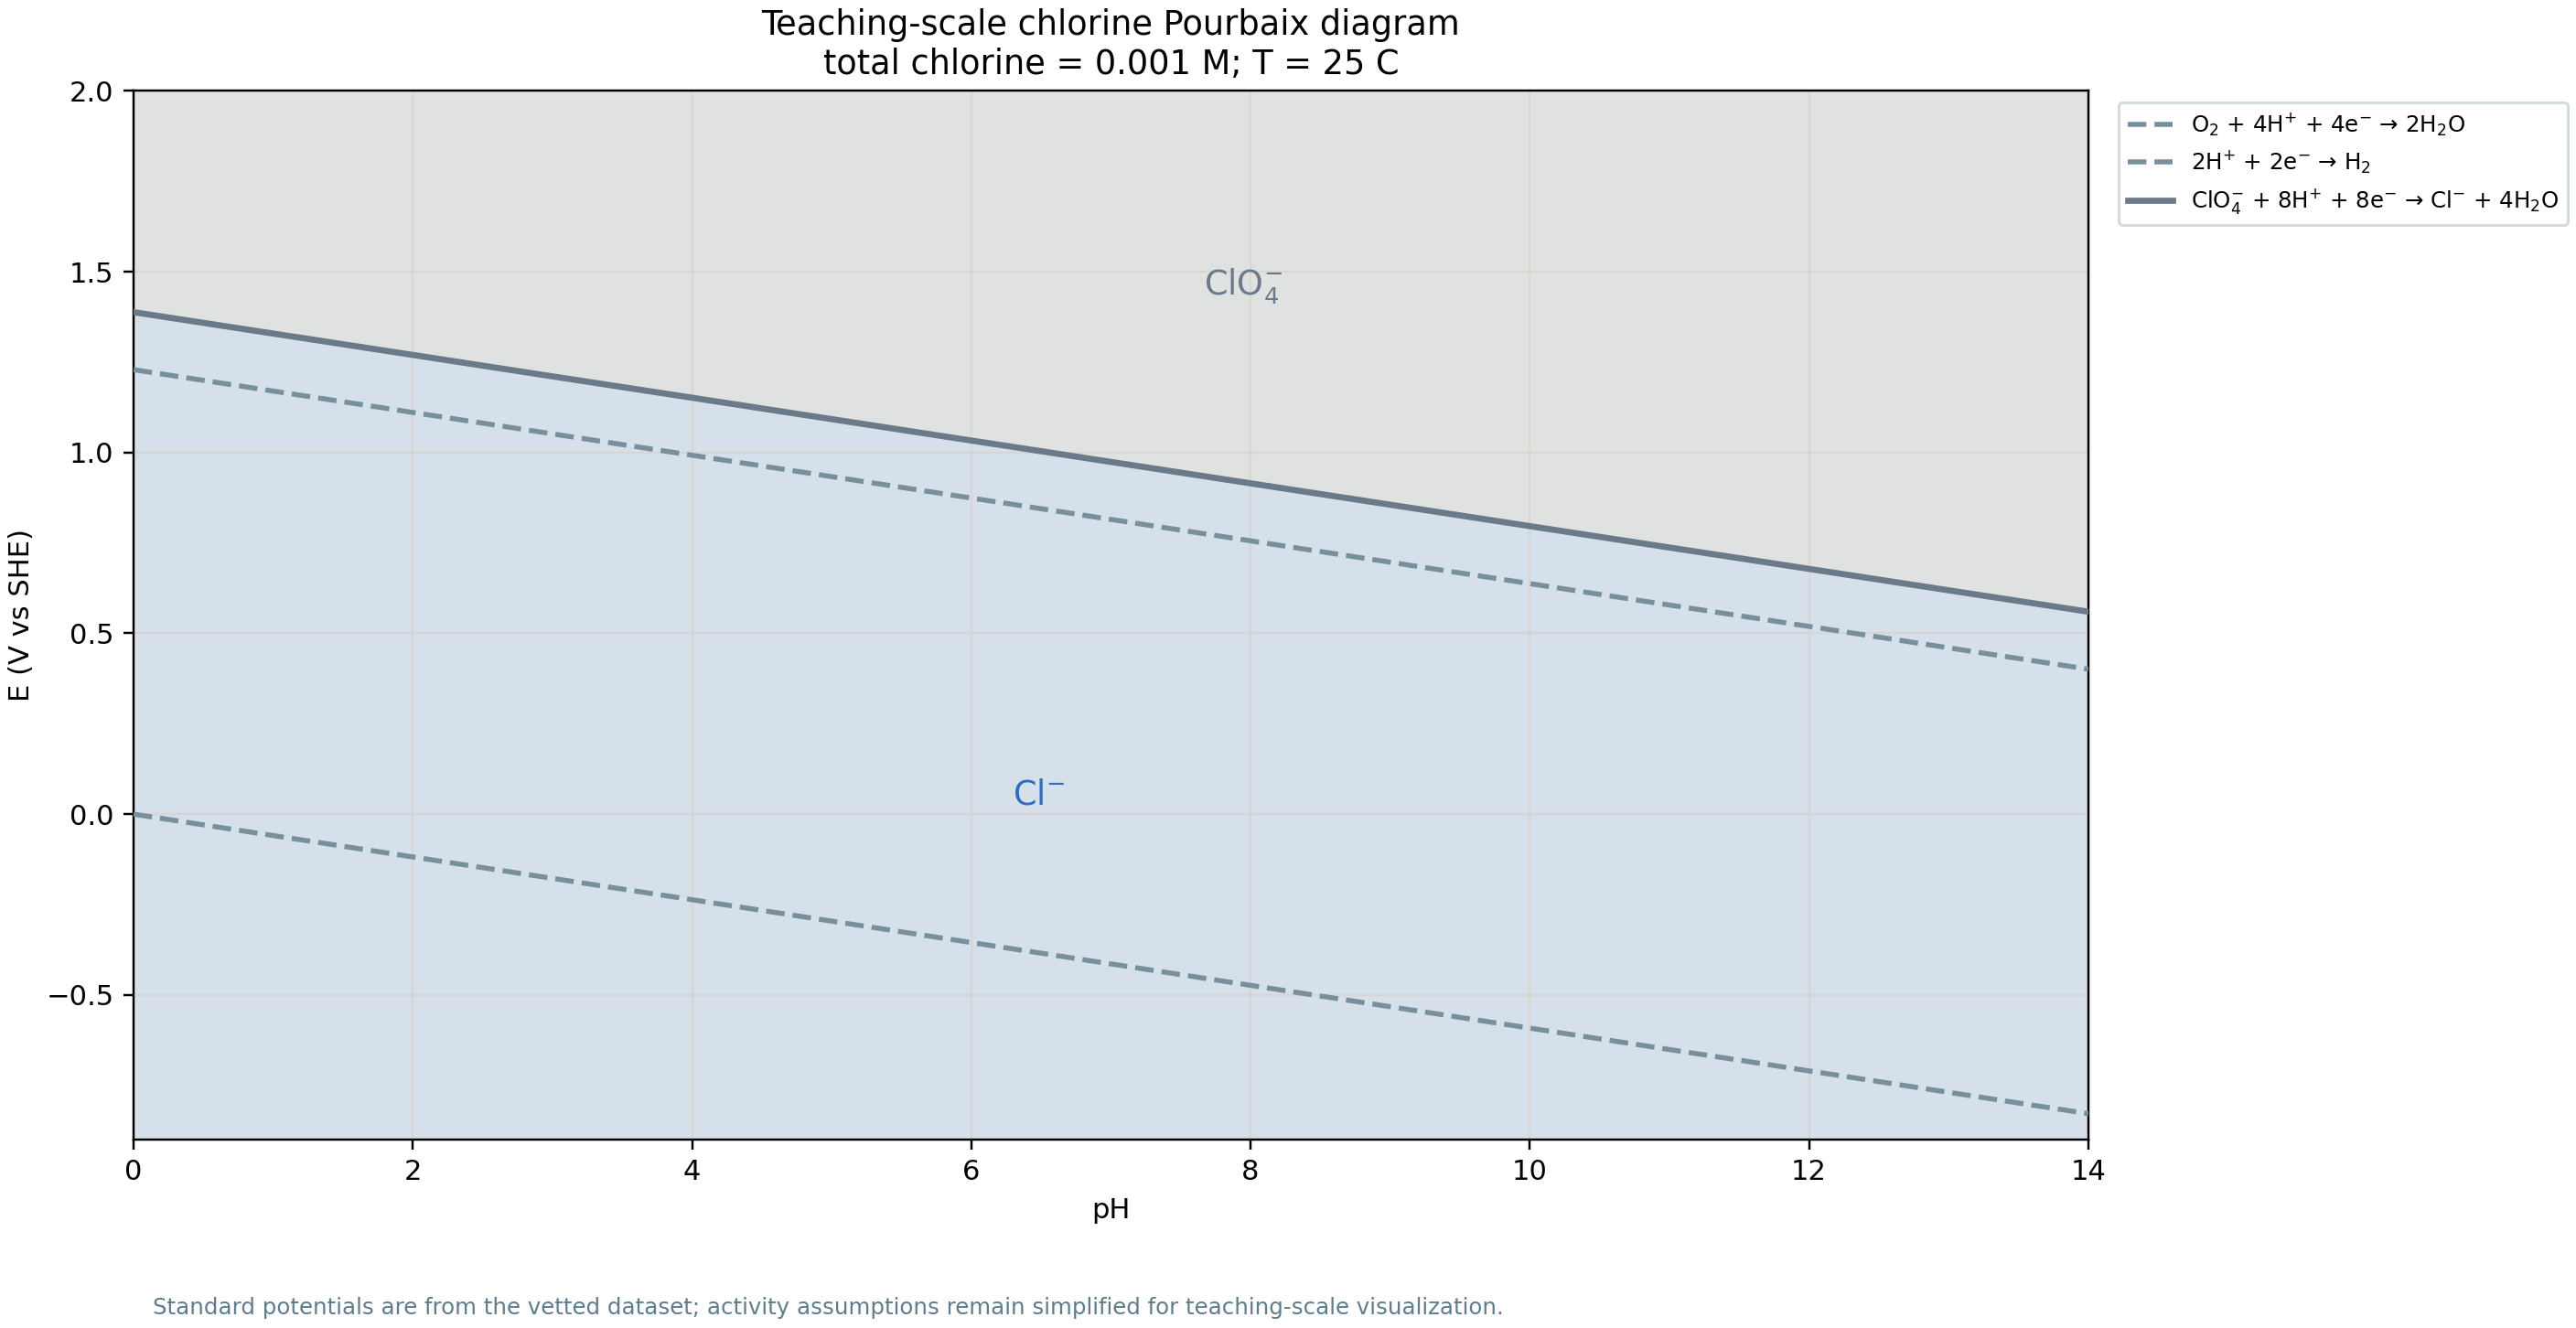
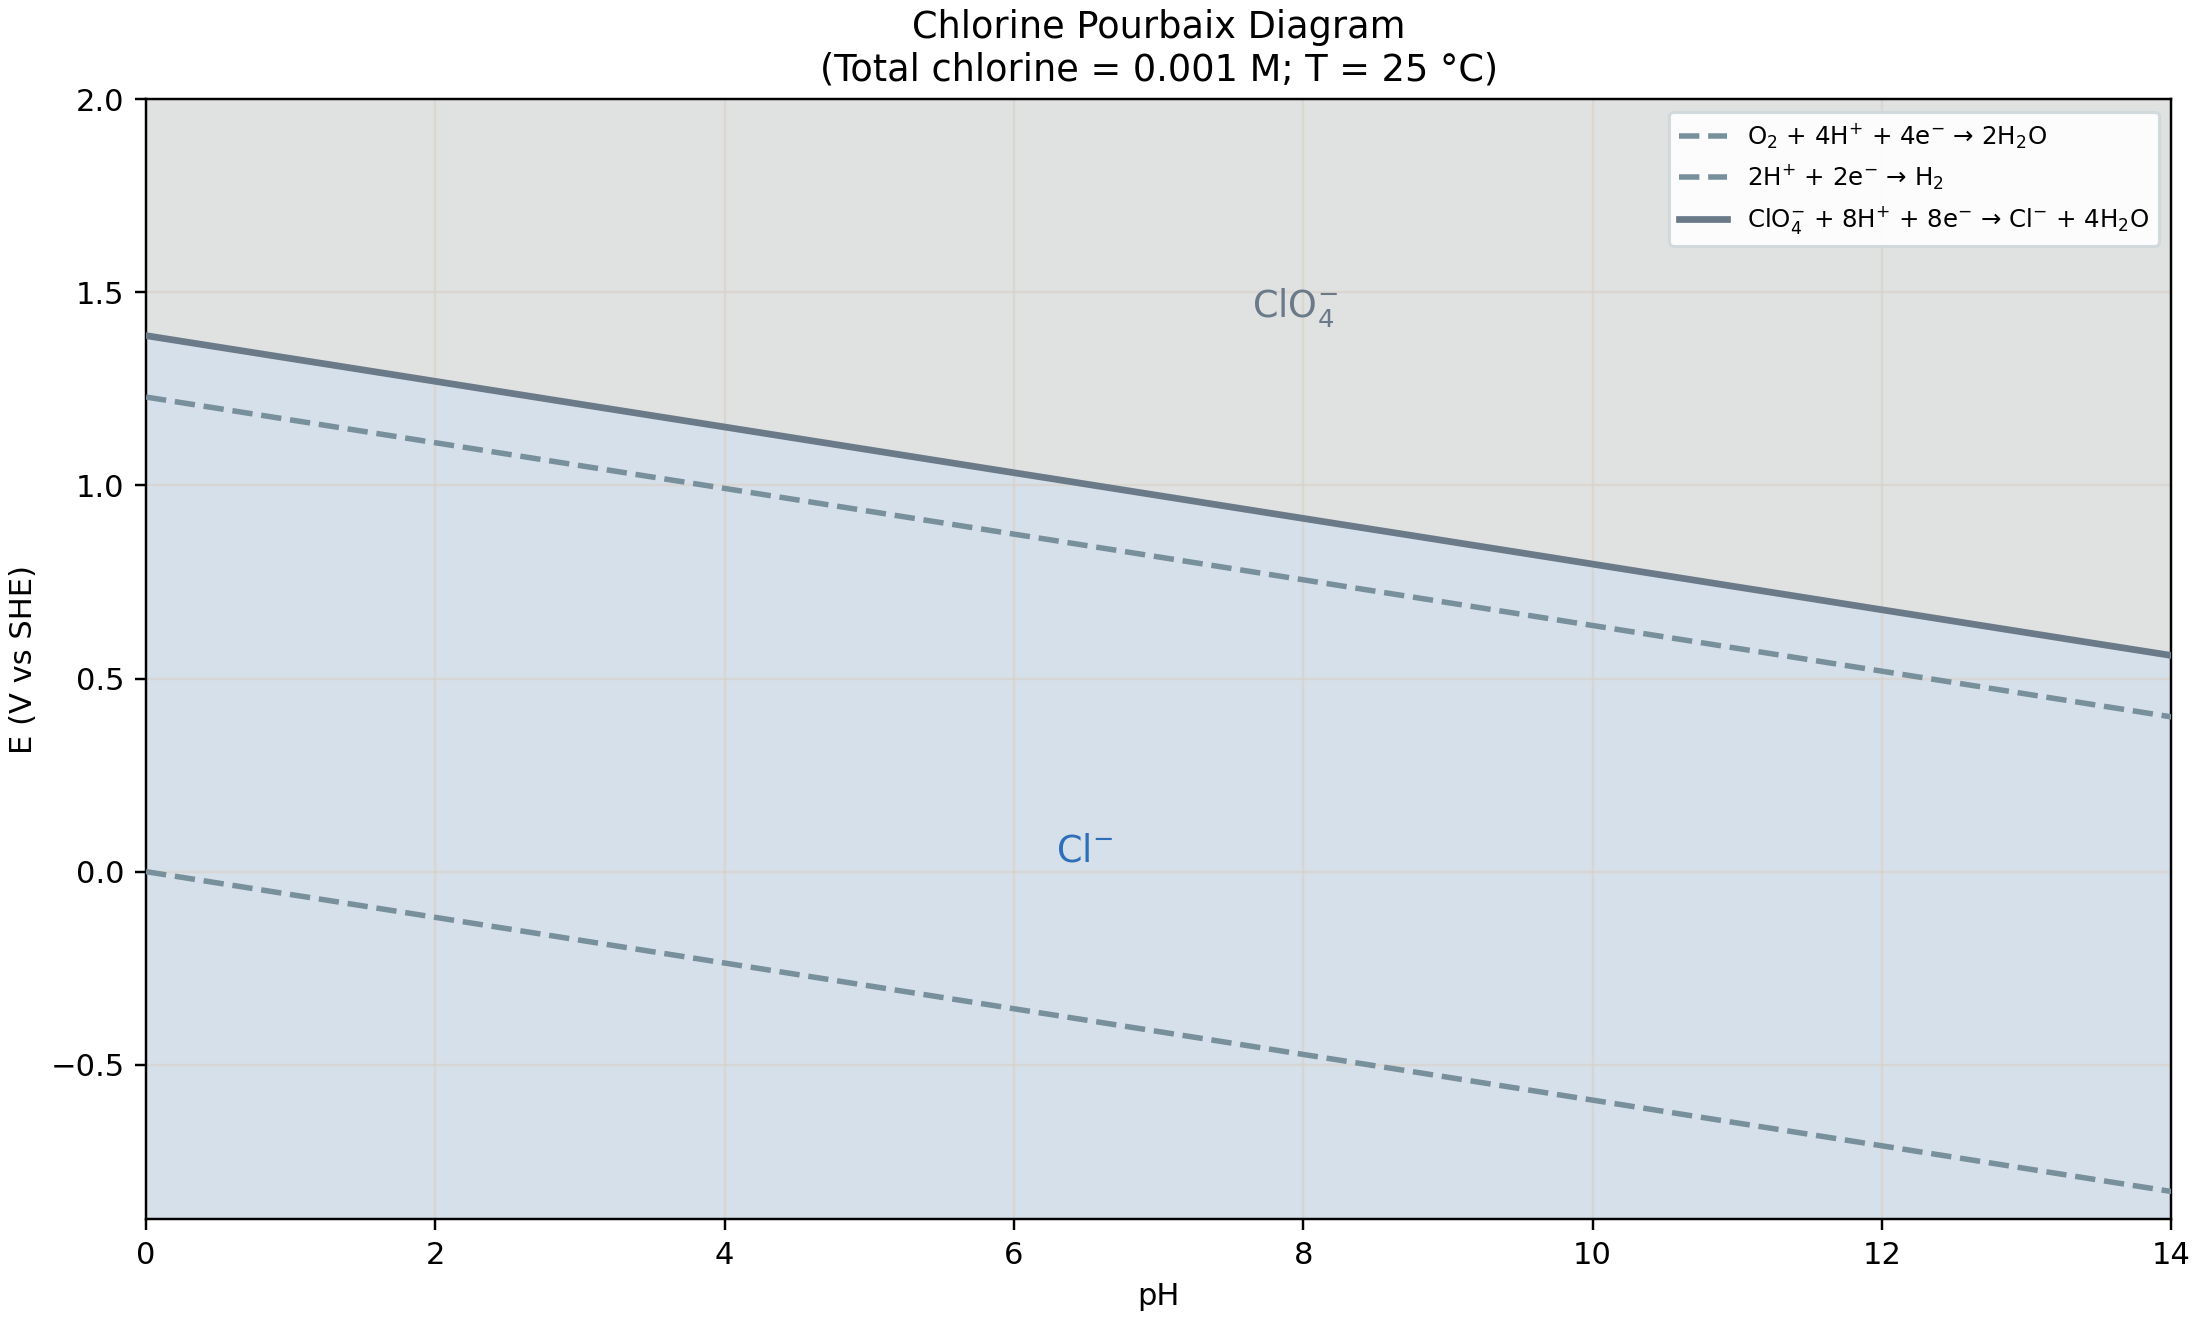
Update

diff --git a/components/PourbaixDiagram.vue b/components/PourbaixDiagram.vue
@@ -492,8 +492,7 @@ onBeforeUnmount(stopPlayback)
           :y="margin.top"
           :width="plotWidth"
           :height="plotHeight"
-          fill="#fbfaf6"
-          stroke="#cfd8dc"
+          class="plot-area"
         />
 
         <g v-for="tick in xTicks" :key="`x-${tick}`">
@@ -502,7 +501,7 @@ onBeforeUnmount(stopPlayback)
             :x2="xScale(tick)"
             :y1="margin.top"
             :y2="margin.top + plotHeight"
-            stroke="#e6e1d8"
+            class="grid-line"
             stroke-width="1"
           />
           <text :x="xScale(tick)" :y="height - 20" text-anchor="middle" class="axis-tick">{{ tick }}</text>
@@ -514,7 +513,7 @@ onBeforeUnmount(stopPlayback)
             :x2="margin.left + plotWidth"
             :y1="yScale(tick)"
             :y2="yScale(tick)"
-            stroke="#ece7dd"
+            class="grid-line"
             stroke-width="1"
           />
           <text :x="margin.left - 12" :y="yScale(tick) + 4" text-anchor="end" class="axis-tick">
@@ -599,7 +598,7 @@ onBeforeUnmount(stopPlayback)
           :x2="margin.left + plotWidth"
           :y1="margin.top + plotHeight"
           :y2="margin.top + plotHeight"
-          stroke="#455a64"
+          class="axis-frame"
           stroke-width="1.5"
         />
         <line
@@ -607,7 +606,7 @@ onBeforeUnmount(stopPlayback)
           :x2="margin.left"
           :y1="margin.top"
           :y2="margin.top + plotHeight"
-          stroke="#455a64"
+          class="axis-frame"
           stroke-width="1.5"
         />
 
@@ -818,6 +817,25 @@ onBeforeUnmount(stopPlayback)
 
 <style scoped>
 .pourbaix-shell {
+  --pourbaix-surface: #ffffff;
+  --pourbaix-panel-border: rgba(38, 50, 56, 0.14);
+  --pourbaix-panel-shadow: 0 12px 30px rgba(38, 50, 56, 0.08);
+  --pourbaix-plot-bg: #fbfaf6;
+  --pourbaix-plot-border: #cfd8dc;
+  --pourbaix-grid: #e6e1d8;
+  --pourbaix-frame: #455a64;
+  --pourbaix-text: #37474f;
+  --pourbaix-text-strong: #111827;
+  --pourbaix-text-muted: #607d8b;
+  --pourbaix-accent-text: #1f3c5c;
+  --pourbaix-accent: #1f78f2;
+  --pourbaix-button-bg: #ffffff;
+  --pourbaix-button-muted-bg: #eef3f6;
+  --pourbaix-card-bg: #f7f9fb;
+  --pourbaix-equation-edge: #2f6fba;
+  --pourbaix-composition-edge: #6a7a89;
+  --pourbaix-swatch-border: rgba(0, 0, 0, 0.12);
+  --pourbaix-region-label-halo: #ffffff;
   display: grid;
   grid-template-columns: minmax(0, 1fr) minmax(220px, 252px);
   gap: 12px;
@@ -828,13 +846,35 @@ onBeforeUnmount(stopPlayback)
   min-height: 0;
 }
 
+:global(html.dark) .pourbaix-shell {
+  --pourbaix-surface: #111827;
+  --pourbaix-panel-border: rgba(148, 163, 184, 0.26);
+  --pourbaix-panel-shadow: 0 14px 34px rgba(0, 0, 0, 0.32);
+  --pourbaix-plot-bg: #101820;
+  --pourbaix-plot-border: #475569;
+  --pourbaix-grid: #334155;
+  --pourbaix-frame: #cbd5e1;
+  --pourbaix-text: #dbeafe;
+  --pourbaix-text-strong: #f8fafc;
+  --pourbaix-text-muted: #94a3b8;
+  --pourbaix-accent-text: #bfdbfe;
+  --pourbaix-accent: #60a5fa;
+  --pourbaix-button-bg: #1e293b;
+  --pourbaix-button-muted-bg: #172033;
+  --pourbaix-card-bg: #172033;
+  --pourbaix-equation-edge: #60a5fa;
+  --pourbaix-composition-edge: #94a3b8;
+  --pourbaix-swatch-border: rgba(248, 250, 252, 0.34);
+  --pourbaix-region-label-halo: #0f172a;
+}
+
 .chart-panel,
 .control-panel,
 .chart-control-card {
-  border: 1px solid rgba(38, 50, 56, 0.14);
+  border: 1px solid var(--pourbaix-panel-border);
   border-radius: 8px;
-  background: #fff;
-  box-shadow: 0 12px 30px rgba(38, 50, 56, 0.08);
+  background: var(--pourbaix-surface);
+  box-shadow: var(--pourbaix-panel-shadow);
 }
 
 .diagram-column {
@@ -856,6 +896,19 @@ onBeforeUnmount(stopPlayback)
   width: 100%;
   height: 100%;
   display: block;
+}
+
+.plot-area {
+  fill: var(--pourbaix-plot-bg);
+  stroke: var(--pourbaix-plot-border);
+}
+
+.grid-line {
+  stroke: var(--pourbaix-grid);
+}
+
+.axis-frame {
+  stroke: var(--pourbaix-frame);
 }
 
 .under-chart-panels {
@@ -896,18 +949,18 @@ onBeforeUnmount(stopPlayback)
   align-self: end;
   width: 24px;
   height: 24px;
-  border: 1px solid rgba(38, 50, 56, 0.2);
+  border: 1px solid var(--pourbaix-panel-border);
   border-radius: 6px;
-  background: #eef3f6;
-  color: #455a64;
+  background: var(--pourbaix-button-muted-bg);
+  color: var(--pourbaix-frame);
   padding: 0;
 }
 
 .mode-toggle.active {
-  background: #ffffff;
-  border-color: rgba(47, 111, 186, 0.35);
-  color: #1f3c5c;
-  box-shadow: 0 1px 3px rgba(38, 50, 56, 0.15);
+  background: var(--pourbaix-button-bg);
+  border-color: color-mix(in srgb, var(--pourbaix-accent) 55%, transparent);
+  color: var(--pourbaix-accent-text);
+  box-shadow: 0 1px 3px color-mix(in srgb, var(--pourbaix-frame) 28%, transparent);
 }
 
 .mode-icon {
@@ -923,7 +976,7 @@ onBeforeUnmount(stopPlayback)
 .control-title,
 label {
   margin: 0;
-  color: #37474f;
+  color: var(--pourbaix-text);
   font-size: 0.66rem;
   font-weight: 700;
   line-height: 1.05;
@@ -941,6 +994,7 @@ label sub {
 input[type="range"] {
   width: 100%;
   min-width: 0;
+  accent-color: var(--pourbaix-accent);
 }
 
 .play-toggle {
@@ -948,18 +1002,18 @@ input[type="range"] {
   place-items: center;
   width: 22px;
   height: 22px;
-  border: 1px solid rgba(38, 50, 56, 0.18);
+  border: 1px solid var(--pourbaix-panel-border);
   border-radius: 50%;
-  background: #ffffff;
-  color: #1f3c5c;
+  background: var(--pourbaix-button-bg);
+  color: var(--pourbaix-accent-text);
   padding: 0;
-  box-shadow: 0 1px 2px rgba(38, 50, 56, 0.12);
+  box-shadow: 0 1px 2px color-mix(in srgb, var(--pourbaix-frame) 24%, transparent);
 }
 
 .play-toggle.active {
-  background: #1f78f2;
-  border-color: #1f78f2;
-  color: #ffffff;
+  background: var(--pourbaix-accent);
+  border-color: var(--pourbaix-accent);
+  color: var(--pourbaix-surface);
 }
 
 .play-toggle svg {
@@ -970,7 +1024,7 @@ input[type="range"] {
 
 output {
   font-variant-numeric: tabular-nums;
-  color: #1f3c5c;
+  color: var(--pourbaix-accent-text);
   font-size: 0.62rem;
   font-weight: 700;
   text-align: right;
@@ -997,12 +1051,12 @@ output {
   width: 9px;
   height: 9px;
   border-radius: 50%;
-  border: 1px solid rgba(0, 0, 0, 0.12);
+  border: 1px solid var(--pourbaix-swatch-border);
 }
 
 .equation-card {
-  border-left: 3px solid #2f6fba;
-  background: #f7f9fb;
+  border-left: 3px solid var(--pourbaix-equation-edge);
+  background: var(--pourbaix-card-bg);
   box-sizing: border-box;
   display: grid;
   flex: 0 0 auto;
@@ -1021,8 +1075,8 @@ output {
 }
 
 .composition-card {
-  border-left: 3px solid #6a7a89;
-  background: #f7f9fb;
+  border-left: 3px solid var(--pourbaix-composition-edge);
+  background: var(--pourbaix-card-bg);
   box-sizing: border-box;
   align-self: stretch;
   padding: 7px 10px 8px;
@@ -1041,7 +1095,7 @@ output {
 }
 
 .coordinate-readout {
-  color: #111827;
+  color: var(--pourbaix-text-strong);
   font-size: 0.68rem;
   font-variant-numeric: tabular-nums;
   font-weight: 800;
@@ -1055,15 +1109,15 @@ output {
 .unit-toggle {
   min-width: 38px;
   height: 22px;
-  border: 1px solid rgba(38, 50, 56, 0.18);
+  border: 1px solid var(--pourbaix-panel-border);
   border-radius: 5px;
-  background: #ffffff;
-  color: #1f3c5c;
+  background: var(--pourbaix-button-bg);
+  color: var(--pourbaix-accent-text);
   font-size: 0.62rem;
   font-weight: 800;
   line-height: 1;
   padding: 0 5px;
-  box-shadow: 0 1px 2px rgba(38, 50, 56, 0.12);
+  box-shadow: 0 1px 2px color-mix(in srgb, var(--pourbaix-frame) 24%, transparent);
 }
 
 .composition-list {
@@ -1085,7 +1139,7 @@ output {
 .composition-label {
   min-width: 0;
   overflow: hidden;
-  color: #37474f;
+  color: var(--pourbaix-text);
   font-size: 0.64rem;
   line-height: 1.15;
   text-overflow: ellipsis;
@@ -1093,7 +1147,7 @@ output {
 }
 
 .composition-value {
-  color: #1f3c5c;
+  color: var(--pourbaix-accent-text);
   font-size: 0.64rem;
   font-variant-numeric: tabular-nums;
   font-weight: 700;
@@ -1110,6 +1164,7 @@ output {
 
 .equation-title {
   margin: 0 0 4px;
+  color: var(--pourbaix-text);
   font-size: 0.72rem;
   font-weight: 700;
   line-height: 1.15;
@@ -1124,7 +1179,7 @@ output {
 }
 
 .equation {
-  color: #1f3c5c;
+  color: var(--pourbaix-accent-text);
   font-family: ui-monospace, SFMono-Regular, Menlo, Monaco, Consolas, "Liberation Mono", monospace;
   display: -webkit-box;
   overflow-wrap: anywhere;
@@ -1135,7 +1190,7 @@ output {
 
 .equation-note,
 .caption {
-  color: #607d8b;
+  color: var(--pourbaix-text-muted);
   display: -webkit-box;
   overflow-wrap: anywhere;
   overflow: hidden;
@@ -1144,12 +1199,12 @@ output {
 }
 
 .axis-tick {
-  fill: #607d8b;
+  fill: var(--pourbaix-text-muted);
   font-size: 12px;
 }
 
 .axis-label {
-  fill: #263238;
+  fill: var(--pourbaix-text-strong);
   font-size: 14px;
   font-weight: 700;
 }
@@ -1158,7 +1213,7 @@ output {
   font-size: 17px;
   font-weight: 700;
   paint-order: stroke;
-  stroke: #fff;
+  stroke: var(--pourbaix-region-label-halo);
   stroke-width: 3px;
 }
 

diff --git a/scripts/chlorine_pourbaix/plot.py b/scripts/chlorine_pourbaix/plot.py
@@ -31,7 +31,7 @@ def write_static_phase_diagram(payload: dict) -> None:
         payload.get("metadata", {}).get("staticTemperatureC", STATIC_TEMPERATURE_C)
     )
 
-    fig, ax = plt.subplots(figsize=(12.8, 6.6), constrained_layout=True)
+    fig, ax = plt.subplots(figsize=(10, 6), constrained_layout=True)
     ax.set_facecolor("#fbfaf6")
 
     for region in current_slice.get("regions", payload["regions"]):
@@ -115,29 +115,20 @@ def write_static_phase_diagram(payload: dict) -> None:
     ax.set_xlabel("pH")
     ax.set_ylabel("E (V vs SHE)")
     ax.set_title(
-        "Teaching-scale chlorine Pourbaix diagram\n"
-        f"total chlorine = {10 ** STATIC_LOG_C:g} M; "
-        f"T = {static_temperature_c:g} C"
+        "Chlorine Pourbaix Diagram\n"
+        f"(Total chlorine = {10 ** STATIC_LOG_C:g} M; "
+        f"T = {static_temperature_c:g} °C)"
     )
     ax.set_xticks(range(0, 15, 2))
     ax.grid(True, color="#d8d2c8", linewidth=0.8, alpha=0.65)
     ax.legend(
-        loc="upper left",
-        bbox_to_anchor=(1.01, 1.0),
+        loc="upper right",
+        # bbox_to_anchor=(1.01, 1.0),
         frameon=True,
         framealpha=0.92,
         facecolor="white",
         edgecolor="#cfd8dc",
         fontsize=8,
-    )
-    ax.text(
-        0.01,
-        -0.15,
-        payload["metadata"]["warning"],
-        transform=ax.transAxes,
-        fontsize=8,
-        color="#607d8b",
-        va="top",
     )
 
     STATIC_PNG_OUT.parent.mkdir(parents=True, exist_ok=True)

diff --git a/slides.md b/slides.md
@@ -4,7 +4,7 @@ title: Chlorine Pourbaix Diagram
 info: |
   Conceptual walkthrough of chlorine speciation across pH and redox potential.
 layout: cover
-background: /assets/cover.jpg
+background: /cover.jpg
 backgroundSize: cover
 class: cover-page text-left text-white
 transition: fade-out
@@ -137,7 +137,7 @@ class: kinetic-diagram-slide
 
 # Kinetically Constrained Chlorine Eh-pH Diagram
 
-<img class="rounded-xl h-115 dark:invert-100" src="/assets/chlorine_kinetic_constrained.png" alt="Kinetically constrained chlorine Eh-pH diagram with one second, one hour, one day, and one year panels" />
+<img class="rounded-xl h-115 dark:invert-100" src="/src/chlorine_kinetic_constrained.png" alt="Kinetically constrained chlorine Eh-pH diagram with one second, one hour, one day, and one year panels" />
 
 <!-- Time-dependent kinetic phase map with -->
 <!-- 